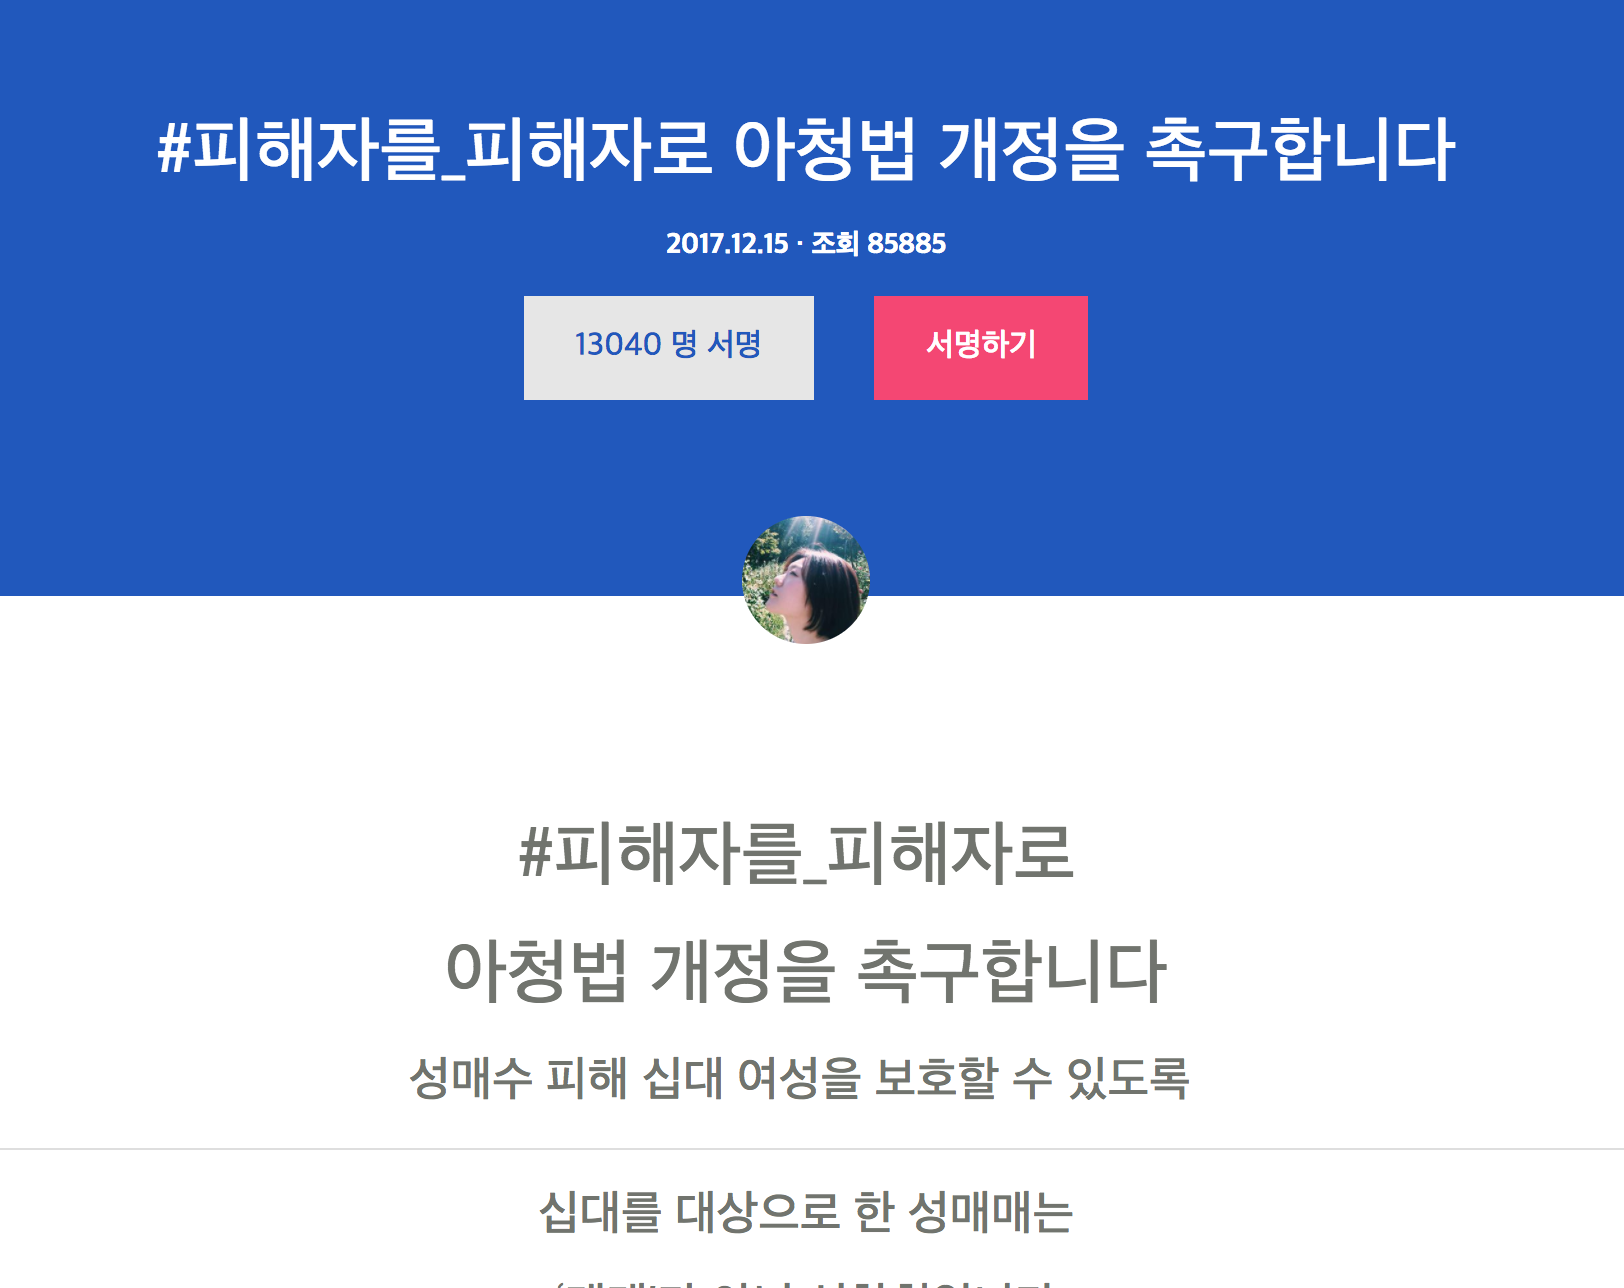
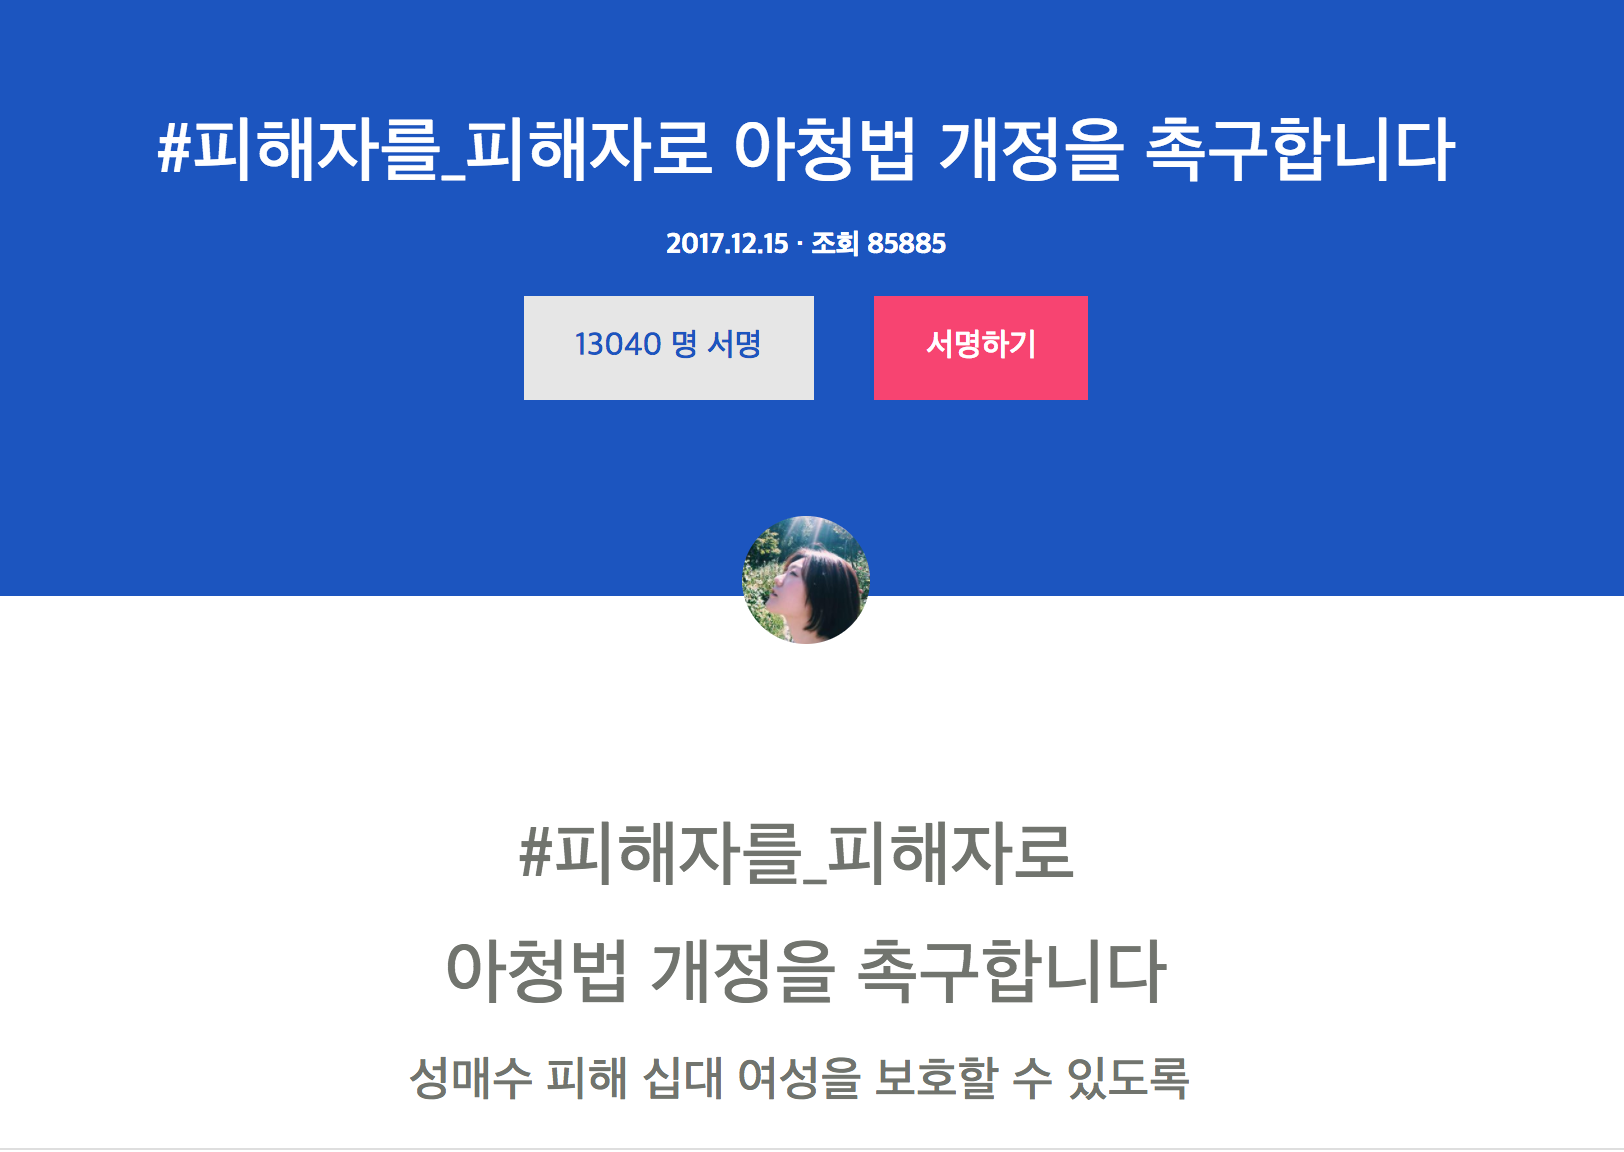
캠페인 헤더 이미지를 추가하고 컨텐츠를 채워 넣습니다

diff --git a/app/assets/stylesheets/components/campaign.scss b/app/assets/stylesheets/components/campaign.scss
@@ -15,30 +15,54 @@
     line-height: 24px;
   }
 
+  .about-slogan {
+    padding-top: 50px;
+    .device-bloc-text-p {
+      font-family: Open Sans;
+      font-weight: 300;
+      margin-top: 30px;
+      margin-bottom: 0;
+      font-size: 20px;
+      line-height: 28px;
+      @media (max-width: 420px) {
+        font-size: 20px;
+        text-align: center;
+      }
+    }
+    .bloc-md {
+      @media (min-width: 767px){
+        padding: 140px 0 80px;
+      }
+    }
+    h1 > span {
+      color: #e1b8ff;
+      font-weight: 400;
+      padding: 5px;
+      border-bottom: 1px solid #e1b8ff;
+    }
+  }
+
   .header {
     top: 50px;
     left: 0px;
     height: 400px;
     background-color: rgba(182, 182, 182, 1);
+    background:
+      /* top, transparent black, faked with gradient */
+      linear-gradient(
+        rgba(0, 0, 0, 0.5),
+        rgba(0, 0, 0, 0.5)
+      ),
+      /* bottom, image */
+      #{asset_url('campaign-header.jpg')};
+    background-color: rgba(182, 182, 182, 1);
+    background-position: center;
+    background-size: cover;
+    background-repeat: no-repeat;
     .about-text {
       margin-top: 300px;
+      color: white;
       font-family: Noto Serif CJK KR;
-    }
-  }
-
-  .govcraft-app {
-    margin-bottom: 30px;
-    .govcraft-app-link {
-      color: rgba(0,0,0,0.5);
-    }
-    .govcraft-app-icon {
-      width: 135px;
-      height: 135px;
-      margin-top: 30px;
-    }
-    .govcraft-app-text {
-      color: rgba(0,0,0,0.5);
-      margin-top: 10px;
     }
   }
 
@@ -69,6 +93,27 @@
   .campaign-text {
     margin: 10px;
     color: rgba(0,0,0,0.5);
+  }
+
+  .community {
+    height: 210px;
+    background-color: rgba(255, 255, 255, 1);
+    border-radius: 3px;
+    box-shadow: 0px 2px 4px 0px rgba(0, 0, 0, 0.05);
+    margin: 20px;
+    background-position: center;
+    background-size: cover;
+    background-repeat: no-repeat;
+    .box {
+      width: 100%;
+      height: 100%;
+      background-color: rgba(0, 0, 0, 0.4);
+    }
+    .text {
+      padding-top: 145px;
+      margin-left: 20px;
+      color: rgba(255, 255, 255, 0.9);
+    }
   }
 
 }
